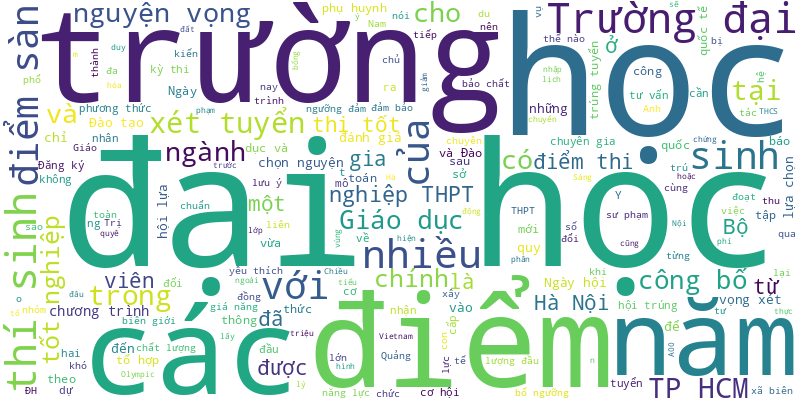
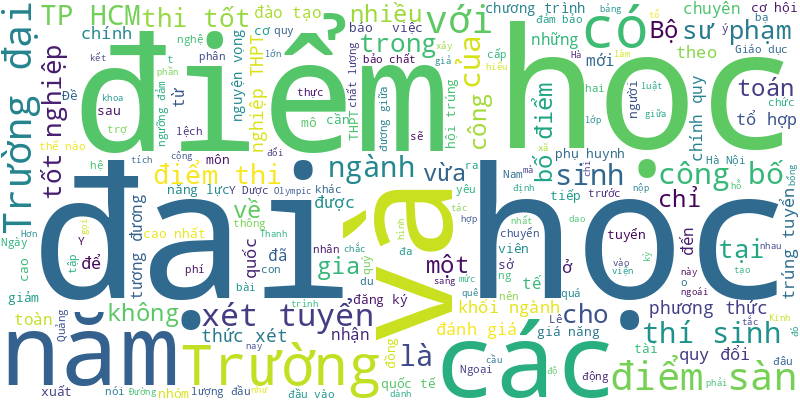
🍀 = 100%

diff --git a/README.md b/README.md
@@ -1,7 +1,27 @@
 # Tuoi Tre RSS 
 
 ## Giáo dục 
-- Sáng 22-7, Bộ Giáo dục và Đào tạo chính thức công bố ngưỡng đảm bảo chất lượng đầu vào năm 2025 (điểm sàn) đối với nhóm ngành sức khỏe và đào tạo giáo viên, trong đó điểm sàn nhóm ngành sức khỏe giảm 2 điểm so với năm ngoái.
+- Các chuyên gia nhận định điểm sàn khối ngành sức khỏe, sư phạm năm nay phù hợp với thực tế kỳ thi tốt nghiệp.
+- Nhiều trường đại học công bố điểm quy đổi tương đương giữa điểm học bạ, đánh giá năng lực và điểm thi đánh giá năng lực.
+- Trường đại học Y Dược Cần Thơ vừa có thông báo về ngưỡng đảm bảo chất lượng đầu vào xét tuyển các ngành hệ đại học chính quy năm 2025.
+- Trường đại học Sư phạm Hà Nội chính thức công bố ngưỡng đảm bảo chất lượng đầu vào đại học chính quy 2025 với nhóm ngành đào tạo giáo viên 19 - 22 điểm.
+- Đại học Kinh tế quốc dân chính thức công bố điểm sàn xét tuyển và bảng quy đổi tương đương giữa các phương thức xét tuyển.
+- Trường đại học Sư phạm TP.HCM công bố điểm sàn và nguyên tắc quy đổi điểm trúng tuyển giữa các phương thức xét tuyển năm 2025 tại 3 cơ sở đào tạo.
+- Các ứng viên nhận học bổng - được gọi là Học giả Jardine-Fulbright, sẽ được nhận hỗ trợ tài chính từ quỹ để chi trả học phí.
+- Theo lãnh đạo Đại học Phenikaa, việc chuyển sang 'đại học' không chỉ là sự chuyển đổi về tên gọi, mà là một cam kết quốc gia, là trách nhiệm trước người học, xã hội và cộng đồng khoa học.
+- Đại học Quốc gia TP.HCM và CT Group ký kết hợp tác, với thỏa thuận dành 100 tỉ đồng tài trợ dài hạn, thúc đẩy công nghệ cao, hỗ trợ người học và thu hút nhân tài.
+- Thí sinh xét tuyển vào ngành bán dẫn phải thuộc nhóm 25% thí sinh có điểm tổ hợp môn xét tuyển cao nhất toàn quốc và nhóm 20% thí sinh có điểm môn toán cao nhất toàn quốc.
+- Trường đại học Công nghiệp TP.HCM vừa công bố điểm sàn phương thức xét điểm thi tốt nghiệp THPT và quy tắc quy đổi điểm trúng tuyển tương đương giữa các phương thức xét tuyển.
+- Khối ngành sư phạm có điểm sàn xét tuyển cao nhất so với các khối ngành khác tại Trường đại học Đà Lạt.
+- Hơn 10 ngành đào tạo của Trường đại học Ngoại ngữ năm 2025 có mức điểm sàn giảm 2 điểm so với năm ngoái, trong đó có một ngành giảm tới 5 điểm.
+- Điểm sàn của Đại học Huế tuyển sinh đại học chính quy năm 2025 ở mức dao động từ 15 - 24,6 điểm. Các ngành 'hot' như luật, marketing, trí tuệ nhân tạo, y dược có điểm sàn không quá cao, áp dụng theo nhiều phương thức xét tuyển khác nhau.
+- Đề xuất xây dựng cơ sở quy mô lớn tại Bắc Ninh của Học viện Hàng không Việt Nam đã được lãnh đạo địa phương này ủng hộ.
+- Xuất sắc về nhất cuộc thi quý 3 chương trình Đường lên đỉnh Olympia 2025, Đoàn Thanh Tùng, học sinh lớp 11 sinh, Trường THPT chuyên Lê Quý Đôn (phường Nam Nha Trang, Khánh Hòa), đã mang cầu truyền hình về cho quê hương sau 6 năm.
+- Điểm thi tốt nghiệp THPT môn công nghệ công nghiệp có độ lệch điểm cao nhất là 2,26 điểm so với điểm học bạ; tiếp đến là môn toán lệch 2,25 điểm, tiếng Anh lệch 1,57 điểm.
+- Khác với các năm trước, thí sinh đăng ký học cao đẳng chỉ cần nộp hồ sơ trực tiếp cho trường, không phải đăng ký trên hệ thống chung của Bộ.
+- Đề thi Olympic toán học quốc tế 2025 gồm 6 bài toán, thi trong 540 phút. Lê Phan Đức Mân làm theo phần thi mà cậu chắc chắn nhất, hiểu đến đâu làm đến đó...
+- Theo phân tích của Bộ GD-ĐT, 20,25 điểm tổ hợp A00 tương đương 19 điểm tổ hợp B00, 22,75 điểm C00, 16,25 điểm D01 và 14,75 điểm D07.
+- Bộ Giáo dục và Đào tạo công bố điểm sàn khối ngành sư phạm là 19,  khối ngành sức khỏe giảm 2 điểm.
 - Năm nay, Trường đại học Ngoại thương (FTU) lấy điểm sàn cho phương thức xét điểm thi tốt nghiệp THPT với tổ hợp A00 (toán, lý, hóa) 24 điểm, các tổ hợp còn lại 23 điểm.
 - Chiều 21-7, Phó chủ tịch UBND TP.HCM đón và thưởng nóng 50 triệu đồng cho học sinh đoạt HCB toán quốc tế Lê Phan Đức Mân.
 - Điểm sàn các ngành sư phạm của trường là 19, tương đương điểm sàn khối ngành sư phạm năm 2024 do Bộ Giáo dục và Đào tạo công bố.
@@ -31,80 +51,63 @@
 - Trong tập phát sóng tiếp theo của Khám phá trường học 2025, mời khán giả cùng chương trình tìm hiểu các ngành học tại Trường đại học Yersin Đà Lạt.
 - Tin tức đáng chú ý: Điểm chuẩn tuyển sinh đại học năm 2025 khó đoán; Bộ Y tế yêu cầu cấp cứu tối đa cho nạn nhân vụ lật tàu du lịch; Đề xuất chỉ cơ quan báo chí mới được sản xuất kênh chương trình chuyên quảng cáo...
 - Với phương thức xét điểm thi THPT 2025, điểm sàn các trường đại học dao động từ 15 đến 24.
-- Ông Phạm Anh Tuấn - chủ tịch UBND tỉnh Gia Lai, yêu cầu 7 xã biên giới phải trình quy hoạch xây dựng trường bán trú trước ngày 15-8.
-- Nhận được thông báo trúng tuyển vào lớp 10 chuyên ở Hải Phòng, em H. làm thủ tục nhập học, thế nhưng nhiều ngày sau lại được thông báo không đủ điểm.
-- Chỉ cần tốt nghiệp THPT, thí sinh đã đủ điều kiện đăng ký học chương trình cử nhân quốc tế chuẩn Anh Quốc tại Gloucestershire Vietnam.
-- Bộ Chính trị thống nhất chủ trương đầu tư xây dựng các trường phổ thông nội trú liên cấp tiểu học và trung học cơ sở tại 248 xã biên giới đất liền.
-- Sau khi Đại học Quốc gia Hà Nội công bố ngưỡng đảm bảo chất lượng đầu vào đại học năm 2025 là 19 điểm, nhiều trường đại học thành viên/trực thuộc chính thức công bố điểm sàn riêng của từng trường.
-- Thí sinh đạt 130 điểm đánh giá năng lực của Đại học Quốc gia Hà Nội (kỳ thi HSA), tương đương 30 điểm tổ hợp A00; 29,5 điểm tổ hợp B00 và C00; 27,75 điểm D01.
-- Trong tập phát sóng tiếp theo của Khám phá trường học 2025, mời khán giả cùng chương trình tìm hiểu các ngành học tại Trường đại học Văn Lang.
-- Nhiều trường đại học đem đến Ngày hội lựa chọn nguyện vọng xét tuyển 2025 nhiều mô hình, cách thức tư vấn độc lạ.
-- Ngày hội lựa chọn nguyện vọng xét tuyển 2025 thu hút nhiều trường đại học đến từ Đài Loan, với các chương trình học bổng hấp dẫn dành cho sinh viên Việt Nam.
-- Nhiều loại đá quý như ruby, sapphire, ngọc lục bảo… đã chế tác tinh xảo được Trường ĐH Mỏ Địa chất mang đến Ngày hội lựa chọn nguyện vọng xét tuyển 2025 tại Hà Nội làm giáo cụ trực quan cho thí sinh.
-- Kỳ thi tốt nghiệp THPT 2025 khép lại trong sự thở phào của nhiều thí sinh và giáo viên, khi phổ điểm hai môn từng bị đánh giá là khó (toán và tiếng Anh) được một số chuyên gia nhận xét là "đẹp bất ngờ".
-- TS Nguyễn Mạnh Hùng - đại diện Vụ Giáo dục đại học (Bộ Giáo dục và Đào tạo) - nêu hàng loạt điều thí sinh cần đặc biệt lưu ý trong thời điểm 'nóng' đăng ký xét tuyển đại học.
-- Thí sinh có thể 'đi đường vòng' để vào ngành yêu thích. Điểm sàn trường quân đội năm nay dự kiến từ 18… Chuyên gia tư vấn tại Ngày hội lựa chọn nguyện vọng xét tuyển 2025.
-- Đội tuyển Việt Nam xếp thứ 9 trong số các quốc gia tham dự kỳ thi Olympic Toán quốc tế (IMO 2025), với 6/6 học sinh đều đoạt huy chương.
-- Từ 7h sáng nay 19-7, Ngày hội lựa chọn nguyện vọng xét tuyển 2025 diễn ra đồng thời tại TP.HCM và Hà Nội, sẵn sàng tư vấn cho thí sinh, phụ huynh.
-- Nhiều trường đại học lớn ở TP.HCM có điểm sàn xét tuyển theo phương thức xét điểm thi tốt nghiệp THPT 2025 và các phương thức khác thấp bất ngờ.
-- Hội sách 'Mơ hỏi mở' 2025 đánh dấu một thập kỷ thế hệ học sinh, sinh viên Vĩnh Long kết nối tri thức qua những cuốn sách.
-- Ngày 18-7, Sở Giáo dục và Đào tạo TP.HCM đã lấy ý kiến về các khoản thu và mức thu của cơ sở giáo dục công lập trên địa bàn TP.HCM năm học 2025-2026.
-- 2 lãnh đạo các công ty thuộc Tập đoàn Giáo dục EQuest đã gửi đơn tố giác bà Ng., đối tác chuyển nhượng Hệ thống Giáo dục Ngôi sao Hà Nội.
-- Theo các chuyên gia, từ nguồn nhân lực đến trang thiết bị phục vụ đào tạo nhân lực cho bán dẫn đều đòi hỏi đầu tư rất lớn.
 ![Edu](Edu.png)
 ## Thời Sự 
-- Bộ đội biên phòng tỉnh Hưng Yên túc trực liên tục với các trang thiết bị như ống nhòm với tầm quan sát 20km, cano… Khi phát hiện có ngư dân vẫn ở chòi ngao hoặc trên thuyền thì sẽ tiếp cận, kiên quyết yêu cầu tuân thủ lệnh cấm biển.
-- Do ảnh hưởng bão số 3 Wipha, độ ẩm đất bão hòa nên nguy cơ sạt lở, lũ tại Thanh Hóa, Nghệ An, Phú Thọ rất cao.
-- Với diễn biến ngày càng khó lường của thiên tai, các thông tin dự báo thời tiết ngày càng được người dân quan tâm theo dõi. Nhưng trang nào đáng tin cậy, không phát tin sai lệch, gây hoang mang?
-- Bão số 3 đã đi qua đặc khu Bạch Long Vĩ (Hải Phòng) và Cô Tô (Quảng Ninh) nhưng không gây thiệt hại gì lớn.
-- Đà Nẵng xác định các thủ tục liên quan về đất đai trong ranh giới Khu thương mại tự do Đà Nẵng tại 5 vị trí có thể làm ngay. Cùng với đó là nghiên cứu, đề xuất mở rộng, điều chỉnh ranh giới khu vào phía Nam (khu vực Chu Lai).
-- Trong hôm qua, khắp các tỉnh chịu ảnh hưởng trực tiếp từ bão như Quảng Ninh, Hưng Yên, Ninh Bình đã hết sức mình chuẩn bị để giảm thiểu thiệt hại do bão số 3 Wipha gây ra.
-- 8h sáng 22-7, tâm bão số 3 nằm ngay trên vùng biển ven bờ Hưng Yên - Ninh Bình với cường độ cấp 9 (74-88km/h), giảm một cấp so với trước đó.
-- So với thời điểm thống kê ngày 8-7, đến nay cả nước đã hỗ trợ xóa nhà tạm, nhà dột nát thêm được gần 2.000 căn.
-- Một số tin tức đáng chú ý: Chủ tịch Chứng khoán FPT không muốn kiêm nhiệm chức phó tổng giám đốc; Đề xuất mức học bổng mới các ngành khoa học cơ bản, công nghệ chiến lược; Đình chỉ lưu hành, thu hồi toàn quốc 8 loại mỹ phẩm nhập khẩu.
-- Phát hiện hai thanh niên đi xe máy không biển số có biểu hiện nghi vấn, Công an phường Hòa Cường (Đà Nẵng) đã đưa vào “tầm ngắm” và từ đây một đường dây trộm cắp, tiêu thụ xe máy liên tỉnh lộ diện.
-- Hôm nay 22-7, bão số 3 sẽ đổ bộ vào đất liền nước ta gây đợt mưa rất to cho các tỉnh Bắc Bộ, thời điểm bão đi qua dông gió dữ dội.
-- Anh Nguyễn Hải Anh cho biết bão số 3 được dự báo sẽ đổ bộ vào Hải Phòng nên từ chiều anh đã đánh xe lên Cung văn hóa Hữu nghị Việt Tiệp để xe.
-- Thông tin với Tuổi Trẻ Online lúc 23h20, bà Lê Ngọc Hân, bí thư Đảng ủy đặc khu Cô Tô (Quảng Ninh), cho biết toàn đặc khu Cô Tô đã bị mất điện.
-- Trưa 20-7 tại TP.HCM xảy ra mưa lớn và dông lốc gây tốc mái 49 căn nhà, 1 căn nhà bị sập, đổ 73 cây xanh, hư hại 2 xe ô tô và 1 xe máy.
-- Một chủ nhà hàng hải sản tại phường Bãi Cháy đã chi gần 100 triệu đồng/ngày cho việc thuê container để che chắn cửa hàng chống bão số 3.
-- Chiều 21-7, Thủ tướng Phạm Minh Chính đã kiểm tra tiến độ Dự án Xây dựng công trình đường bộ cao tốc Cao Lãnh - An Hữu giai đoạn 1.
-- Do ảnh hưởng của bão số 3 (bão Wipha), dự báo từ trưa và chiều mai (22-7) ở Hà Nội khả năng có gió cấp 5-6, gió giật cấp 7-8.
-- Sau khi sáp nhập, ngày 21-7 UBND tỉnh Đồng Nai đã có quyết định cho áp dụng theo bảng giá đất cũ.
-- Bộ Quốc phòng đã huy động 346.210 cán bộ, chiến sĩ, hơn 5.000 ô tô, trên 600 xe đặc chủng, 5 máy bay để ứng trực bão số 3 Wipha.
-- Mưa lớn đúng vào thời điểm tan tầm trong chiều 21-7 khiến giao thông Hà Nội ùn tắc, nhiều người dân mặc áo mưa nhích từng chút.
-- Đến chiều 21-7, tại khu du lịch biển Sầm Sơn, tỉnh Thanh Hóa có hơn 4.000 du khách đang lưu trú tại nhà nghỉ, khách sạn.
-- Dự báo từ khoảng 10h đến 15h chiều mai (22-7), bão số 3 (bão Wipha) đổ bộ vào đất liền, từ Hải Phòng đến bắc Thanh Hóa.
-- Liên quan vụ tai nạn xe khách trên cao tốc Vĩnh Hảo - Phan Thiết, Sở Xây dựng TP.HCM sẽ phối hợp kiểm tra hợp tác xã quản lý xe khách Như Ý 78.
-- Cán bộ, nhân viên trên tàu cao tốc Lighning 68 vừa cứu một ngư dân trôi dạt trên biển thuộc khu vực gần hòn Tre, đặc khu Kiên Hải, tỉnh An Giang.
-- Thông tin với Tuổi Trẻ Online lúc 21h30, lãnh đạo UBND đặc khu Bạch Long Vĩ cho biết bão số 3 đang đến gần đặc khu Bạch Long Vĩ, nơi đây hiện có gió cấp 7-8.
-- Cục Hàng không Việt Nam quyết định tạm dừng khai thác sân bay Vân Đồn và Cát Bi trong tối 21 và ngày 22-7.
-- Cơ quan chức năng đã chỉ ra các hành vi vi phạm của Công ty cổ phần Dược trung ương 3 liên quan số thuốc buộc tiêu hủy nhưng lọt ra ngoài.
-- Phôi sổ hồng sẽ được phân phối đến 3 địa điểm tại TP.HCM để 168 phường, xã, đặc khu tiện nhận phôi, cấp sổ hồng cho người dân trên địa bàn.
-- 161 người có quê ở 16 tỉnh, thành Việt Nam được Campuchia phát hiện từ các tổ chức lừa đảo tại đất nước này.
-- Để đảm bảo quyền lợi người dân, Bảo hiểm xã hội TP đề nghị lấy chính sách hỗ trợ cao nhất của 3 tỉnh thành để căn cứ xây dựng nghị quyết mới.
-- Để sớm đáp ứng kỳ vọng của người dân về hành chính công vụ, đòi hỏi từng cán bộ, công chức phải tự thay đổi tư duy, tác phong làm việc.
-- Sở Nông nghiệp và Môi trường tỉnh Lâm Đồng cho biết trận mưa kèm dông lốc vừa rồi đã gây thiệt hại khoảng 3 tỉ đồng tại 19 xã, phường ở địa phương này.
-- Chiều 21-7, tại khu vực đảo Cô Tô (tỉnh Quảng Ninh) mưa bắt đầu lớn hơn, sóng biển mạnh, gió giật cấp 6, cấp 7 do ảnh hưởng bởi cơn bão số 3 (Wipha).
-- Các nhà mạng tại Việt Nam chủ động triển khai nhiều phương án ứng phó với diễn biến phức tạp của bão số 3 (Wipha).
-- Dự báo của Việt Nam, Nhật Bản và Hong Kong đều nhận định bão số 3 sẽ mạnh lên cấp 11, giật cấp 13-14 trước khi đổ bộ vào Hải Phòng - Thanh Hóa.
-- Chủ tịch TP.HCM chỉ đạo xử lý vụ xây dựng trái phép ở Phước Thắng, yêu cầu làm rõ dấu hiệu có “đầu nậu” đứng sau.
-- Quảng Trị dự kiến xây dựng 51 khu tái định cư phục vụ dự án đường sắt cao tốc Bắc - Nam, giao 35 xã, phường làm chủ đầu tư và chịu trách nhiệm nếu có phát sinh phức tạp trong giải phóng mặt bằng.
-- TP.HCM yêu cầu thủ trưởng các sở, ngành, đơn vị, phường, xã, đặc khu triển khai ứng phó ảnh hưởng bão số 3.
-- Ngư dân tại các xã ven biển Hưng Yên đang cấp tập chằng chống tàu bè, nhà cửa lần cuối, trước khi cơn bão Wipha đổ bộ.
-- Chi cục Kiểm lâm TP.HCM đã tiếp nhận con cá sấu nặng khoảng 2kg mà lực lượng chức năng bắt được dưới kênh Nước Đen, phường Bình Hưng Hòa.
-- Người hoạt động không chuyên trách cấp xã trước ngày 1-7 có thể được bổ nhiệm làm công chức lãnh đạo, nếu đủ điều kiện và thực hiện đúng thủ tục.
-- Thủ tướng Phạm Minh Chính đã đến kiểm tra tiến độ thi công cao tốc Châu Đốc - Cần Thơ - Sóc Trăng, và chỉ đạo "nóng" chủ đầu tư và nhà thầu quyết liệt thi công để thông xe kỹ thuật vào ngày 19-12.
-- Bộ Tài chính đề xuất áp thuế thu nhập cá nhân 20% trên phần thu nhập thực từ mỗi lần chuyển nhượng bất động sản, thay cho cách tính theo tỉ lệ cố định như hiện nay.
-- Ban Chỉ đạo đại hội của Thành ủy TP.HCM về đại hội đảng bộ phường, xã, đặc khu và cấp trên trực tiếp cơ sở nhiệm kỳ 2025-2030 thành lập 17 tổ công tác do các thành viên trong ban làm tổ trưởng.
-- Tổng Bí thư Tô Lâm nhấn mạnh hoạt động kiểm sát không chỉ là thực thi pháp luật mà còn là thực thi công lý với tinh thần nhân văn.
-- Thủ tướng Phạm Minh Chính đã dự lễ viếng, truy điệu và cải táng hài cốt liệt sĩ quân tình nguyện, chuyên gia Việt Nam đã hy sinh tại Campuchia và trong nước nhân kỷ niệm 78 năm Ngày Thương binh liệt sĩ 27-7 tại nghĩa trang Dốc Bà Đắc, tỉnh An Giang.
-- Một số tài khoản Facebook cá nhân tại Quảng Trị liên tục đăng tải thông tin liên quan đến những xe tải giả vờ bán hàng, hỏi đường… rồi xịt hơi cay, thuốc mê bắt cóc người. Công an đã phải vào cuộc xử lý.
-- Kiểm tra đột xuất hoạt động đưa khách du lịch tham quan các đảo trên vịnh Nha Trang bằng tàu thuyền, cảnh sát đường thủy đã đình chỉ hoạt động các phương tiện không đủ thuyền viên, bình chữa cháy...
-- Các trường hợp đăng tải thông tin sai sự thật trên mạng xã hội liên quan đến vụ lật tàu du lịch trên vịnh Hạ Long sẽ bị xử lý nghiêm.
-- Mặc dù cơn bão số 3 (bão Wipha) chưa vào đất liền, nhưng trong hai ngày qua, nhiều địa phương của tỉnh Thanh Hóa có dông lốc cực đoan kèm mưa lớn làm hàng trăm nhà dân bị tốc mái, hư hỏng.
+- Đang câu cá, anh Đầu nghe tiếng kêu cứu thất thanh từ một hồ nước cạnh đó và đã lao xuống hồ nước sâu để cứu người.
+- Phòng khám đa khoa Việt Khang Thủ Đức là điểm nóng thường xuyên bị người dân phản ánh có tình trạng 'vẽ bệnh, moi tiền'.
+- Trong đêm 22-7, nhiều người dân ở xã Tương Dương (tỉnh Nghệ An) chạy lên núi, tìm nơi cao để tránh lũ.
+- Sau khi bão Wipha đổ bộ vào đất liền nước ta, nhiều người cho rằng ảnh hưởng gió bão, mưa có nơi cũng không lớn như dự báo trước đó.
+- Mưa lớn do bão số 3 (Wipha) khiến dòng chảy lũ về hồ thủy điện Bản Vẽ (Nghệ An) ở mức rất cao, vượt lưu lượng lũ thiết kế gần 3.000m³/s. Lũ trên sông Cả ở các trạm Mường Xén, Thạch Giám và Con Cuông đều trên báo động 3 từ 4,7m đến gần 8m.
+- Tin tức đáng chú ý: Đề xuất phụ cấp mới cho nhà giáo từ 1-1-2026 mức 25-80% lương; Bệnh viện Bạch Mai và Việt Đức mới hoạt động từ 30-11 tới đây.
+- Hôm nay 23-7, dù bão số 3 đã tan nhưng vùng nhiễu động suy yếu từ bão vẫn gây mưa to cho Bắc Bộ và các vùng lân cận.
+- Đêm 22-7, nước sông Nậm Mộ qua xã Mường Xén, tỉnh Nghệ An dâng cao gây ngập lụt nhiều khu dân cư. Người dân và chính quyền đang hối hả 'chạy lũ'.
+- Thủ tướng Lào tin tưởng nhân dân Việt Nam sẽ vượt qua mọi khó khăn, đưa cuộc sống của các gia đình bị ảnh hưởng sớm ổn định.
+- Thông tin được đưa ra trong quyết định số 1575 do Phó thủ tướng thường trực Nguyễn Hòa Bình ký ban hành về kế hoạch triển khai thi hành Luật Cán bộ, công chức năm 2025.
+- Ông Lâm Văn Mẫn được chỉ định làm bí thư Đảng ủy Hội đồng Dân tộc và phê chuẩn ông Hoàng Duy Chinh làm phó chủ tịch thường trực Hội đồng Dân tộc của Quốc hội.
+- Quảng Ngãi đang căng mình dập dịch tả heo châu Phi ở phía đông (tỉnh Quảng Ngãi cũ) thì đàn bò ở phía tây (tỉnh Kon Tum cũ) xuất hiện các triệu chứng bất thường, cơ quan chức năng ngay ngáy lo dịch lở mồm long móng.
+- Theo Phó chủ tịch UBND tỉnh Khánh Hòa Trần Hòa Nam, tỉnh sẽ gặp gỡ, đối thoại với doanh nghiệp, nhà đầu tư để giải quyết các kiến nghị và công khai, cam kết tiến độ xử lý đảm bảo minh bạch, hiệu quả, thực chất.
+- Khoảng 17h30 ngày 22-7, tại đê bối khu vực cống Cù Là, xã Hồng Vũ, tỉnh Hưng Yên có hiện tượng tràn 300m trên mặt đê và vỡ khoảng 7m đê.
+- Một đôi nam nữ người Lào mang theo 17kg ma túy đá cùng 6.000 viên ma túy tổng hợp qua biên giới Việt - Lào thì bị biên phòng bắt giữ.
+- Chiều 22-7, ông Nguyễn Văn Nên - ủy viên Bộ Chính trị, bí thư Thành ủy TP.HCM - dẫn đầu đoàn công tác thăm hỏi, tặng quà các thương binh, bệnh binh, người có công tại xã Long Hải, TP.HCM.
+- Do mưa lớn kéo dài ảnh hưởng từ cơn bão số 3 (bão Wipha), nước sông suối ở các xã miền núi Nghệ An dâng cao. Lũ quét qua cuốn trôi cầu, nhiều hộ dân bị chia cắt.
+- Nội dung được nêu trong thông báo kết luận của chủ tịch UBND TP.HCM, sau buổi làm việc với Tập đoàn Sun Group về đề xuất đầu tư các dự án tại TP.HCM.
+- Sau bão số 3, thủy triều lên nhanh làm một số tuyến đường nội đô thành phố Hải Phòng ngập trong nước.
+- Từ ngày 1 đến 18-7, TP.HCM đã tổ chức hơn 5.000 lượt xe đưa rước miễn phí cán bộ, công chức từ Bình Dương và Bà Rịa - Vũng Tàu cũ vào trung tâm TP làm việc.
+- Quảng Trị vừa có kiến nghị cơ chế đặc thù để tuyển dụng lãnh đạo, cán bộ phụ trách lĩnh vực đất đai có năng lực, chuyên môn để đáp ứng nhiệm vụ chủ đầu tư nhiều dự án giải phóng mặt bằng lớn, quan trọng của quốc gia.
+- Nhiều ý kiến đồng tình ủng hộ hướng bắt đầu chuyển đổi xe xăng sang xe điện bắt đầu từ shipper và góp ý cho lộ trình chuyển đổi tại TP.HCM.
+- Phó chủ tịch UBND TP.HCM Bùi Xuân Cường giao Sở Xây dựng khẩn trương phối hợp với UBND các phường xây dựng kế hoạch cải tạo, xây dựng lại 31 chung cư cũ trong năm 2025.
+- Chiều 22-7, bão số 3 (Wipha) bất ngờ ít di chuyển và tại Hòn Dấu (Hải Phòng), Văn Lý (Ninh Bình) lúc 16h vẫn có gió mạnh cấp 8, giật cấp 10.
+- Bộ trưởng Bộ Y tế Đào Hồng Lan đã có trả lời ý kiến của cử tri về đề xuất sáp nhập các trạm y tế xã, phường mới.
+- Dù việc nuôi chim diều lửa cần phải có giấy tờ chứng minh nguồn gốc hợp pháp, nhưng vẫn có người mang loài chim này đến bờ kênh Nhiêu Lộc - Thị Nghè, TP.HCM để huấn luyện cho chim bay lượn cũng như quay clip đăng lên mạng xã hội.
+- Vấn đề gói đồ ăn thừa từ đám cưới hoặc tiệc tùng để mang về nhà thu hút nhiều tranh luận, sau bài viết trên Tuổi Trẻ Online.
+- Công ty TNHH Công nghệ bảo hộ Kanglongda Việt Nam vừa bị UBND TP Huế xử phạt hành chính 335 triệu đồng, vì bán 2,6 tấn chất thải nguy hại cho người không có chức năng xử lý và vi phạm quy định về lưu giữ chất thải công nghiệp.
+- Theo bạn đọc, việc chẩn đoán khác biệt giữa hai cơ sở y tế là điều không thể chấp nhận.
+- Lợi dụng sáp nhập tỉnh thành, nhiều đối tượng lừa đảo giả mạo nhân viên điện lực TP.HCM để chiếm đoạt tài sản khách hàng.
+- Lực lượng cảnh sát phòng cháy chữa cháy và cứu nạn cứu hộ - Công an TP Hà Nội vừa phối hợp lực lượng tại chỗ, cơ sở dập tắt đám cháy tại ngôi nhà 5 tầng trên đường Giải Phóng.
+- Bộ Công an đã tổ chức các hoạt động nhân kỷ niệm 78 năm Ngày Thương binh Liệt sĩ, 65 năm Ngày thành lập Ban An ninh Trung ương Cục miền Nam tại tỉnh Tây Ninh.
+- Theo báo cáo của Sở Y tế TP.HCM, đến nay TP có 2.711 nhà thuốc (trong đó gồm nhà thuốc tư nhân, nhà thuốc bệnh viện, và các nhà thuốc của doanh nghiệp) tham gia bán giá thuốc bình ổn, thấp hơn giá thị trường tối thiểu 5%.
+- Do ảnh hưởng bão số 3, hai hãng tàu cao tốc Phú Quốc Express và Phú Quý Express tạm ngưng tuyến ra Côn Đảo từ 21 đến 25-7.
+- Sau khi phát hiện gà nuôi trong 1 hộ gia đình bị nhiễm cúm gia cầm A (H5N1), ngành chức năng Đắk Lắk đã khoanh vùng dập dịch.
+- Lúc 13h chiều 22-7, tâm bão số 3 (Wipha) đang trên đất liền Ninh Bình - Thanh Hóa. Dự báo trong chiều tối nay, bão sẽ đi sâu vào đất liền và suy yếu thành vùng áp thấp trên khu vực thượng Lào.
+- Do ảnh hưởng cơn bão số 3 Wipha, trong 2 ngày qua, trên địa bàn nhiều xã, phường của tỉnh Thanh Hóa có mưa to đến rất to làm gần 7.200ha lúa mùa bị ngập cục bộ.
+- Ông Nguyễn Trọng Nghĩa dẫn đầu đoàn công tác đến làm việc với Ban Thường vụ Tỉnh ủy An Giang về một số giải pháp phát triển kinh tế và công tác chuẩn bị Đại hội Đảng bộ nhiệm kỳ 2025-2030.
+- Phòng Cảnh sát giao thông Công an tỉnh Đồng Nai cho hay việc công bố số điện thoại nhằm giải quyết nhanh các vụ việc được người dân phản ảnh.
+- Ban Bí thư yêu cầu các cơ quan, địa phương tăng cường chỉ đạo, kiểm tra, ứng phó với bão số 3 (bão Wipha), hạn chế đến mức thấp nhất thiệt hại xảy ra.
+- Trao đổi với Tuổi Trẻ Online, trung tá Lê Thế Dũng, phó đồn trưởng Đồn biên phòng cửa khẩu cảng Hòn Gai, cho biết đã vớt được 1 thi thể nạn nhân tại khu vực cách vị trí tàu Vịnh Xanh 58 gặp nạn khoảng 500m.
+- Bộ Xây dựng cho biết cầu Nhơn Trạch đạt 99% khối lượng, sẵn sàng khai thác. Tuy nhiên, hiện chưa có đường kết nối với vành đai 3 TP.HCM. Tuổi Trẻ Online trao đổi với chủ đầu tư vành đai 3 về vấn đề này.
+- Ngày 22-7, Đảng bộ phường Nha Trang (tỉnh Khánh Hòa) tổ chức Đại hội đại biểu lần thứ I nhiệm kỳ 2025 - 2030. Đây là đại hội điểm cấp cơ sở của Khánh Hòa.
+- Xe hơi chở bốn người bất ngờ bị nổ lốp, sau đó lao vào xe đầu kéo và dải phân cách.
+- Ngày 22-7, Ban quản lý dự án Mỹ Thuận đã báo cáo Bộ Xây dựng về kế hoạch tổ chức lễ khởi công dự án cao tốc Mỹ An - Cao Lãnh giai đoạn 1.
+- Một ổ dịch bệnh dại vừa được phát hiện tại biên giới xã Ia Tơi, Quảng Ngãi. Đến nay đã có 15 con chó bị tiêu hủy và ít nhất hai người bị chó dại cắn đã được tiêm vắc xin, huyết thanh phòng bệnh dại.
+- Người đàn ông ở Đồng Nai chạy xe máy vào đường cong thì mất lái lao thẳng xuống lề đường, văng xa cả chục mét, tử vong sau đó.
+- Chính phủ vừa có nghị quyết tháo gỡ khó khăn, vướng mắc liên quan đến dự án ngăn triều 10.000 tỉ và dự án kết nối đường Phạm Văn Đồng đến nút giao thông Gò Dưa - quốc lộ 1.
+- Đảng ủy xã Nghĩa Hành, Quảng Ngãi đã họp với UBND xã chấn chỉnh những phát sinh không đáng có trong công tác phòng, chống dịch. Việc có người tự phát thu tiền của người dân là chưa đúng và yêu cầu hoàn trả.
+- TP.HCM sẽ nghiên cứu, đề xuất quy định bắt buộc kiểm định khí thải định kỳ xe máy, từng bước loại bỏ xe cũ nát nhằm giảm ô nhiễm môi trường và đảm bảo an toàn giao thông.
 ![New](News.png)
 ## Nhịp sống số 
+- Công ty khởi nghiệp về công nghệ thần kinh Neuralink của tỉ phú Mỹ Elon Musk vừa thông báo lần đầu tiên thực hiện thành công 2 ca cấy chip vào não người trong 1 ngày.
+- Mùa hè sôi động đang gọi tên bạn, và JBL sẵn sàng cùng bạn khuấy đảo từng khoảnh khắc với đại tiệc khuyến mãi JBL Summer Sale cực kỳ hấp dẫn - chỉ từ 990.000 đồng.
+- Microsoft phối hợp Chính phủ Pháp tạo bản sao kỹ thuật số Nhà thờ Đức Bà, mở ra trải nghiệm thực tế ảo cho những người không thể đến Paris, đồng thời lưu trữ chi tiết kiến trúc trong 100 năm tới.
 - Người Việt không còn chỉ theo sau làn sóng AI toàn cầu. Từ việc ứng dụng, họ bắt đầu tạo ra những hệ thống AI mang bản sắc riêng hiểu ngôn ngữ, văn hóa và nhu cầu của chính người Việt.
 - Theo chuyên gia bảo mật, trước đây email lừa đảo dễ dàng bị phát hiện do cách diễn đạt không tự nhiên, nhưng sự tiến bộ của AI đã giúp tạo ra các câu tự nhiên, cho phép tin tặc vượt qua rào cản ngôn ngữ.
 - Mirage được giới thiệu có thể chuyển đổi các luồng video trực tiếp sang nhiều phong cách hình ảnh khác nhau mà vẫn giữ nguyên chuyển động, cấu trúc và tốc độ khung hình.
@@ -152,7 +155,4 @@
 - Tại nhiều quốc gia, nghề nuôi ong đang chuyển mình với công nghệ cảm biến và trí tuệ nhân tạo. Chỉ cần xem điện thoại, người nuôi biết hết những gì xảy ra bên trong tổ ong.
 - Google chính thức hé lộ Android XR, một nền tảng dành riêng cho thiết bị thực tế ảo và tăng cường, được kỳ vọng sẽ định hình lại cách chúng ta làm việc, giải trí và kết nối với thế giới ảo, bắt đầu từ cuối năm 2025.
 - Không chỉ phổ cập mạng tốc độ cao, Viettel còn mang đến trải nghiệm số sống động cho người dân miền Tây ngay tại chợ, trường học, công viên và khu dân cư.
-- Đợt cắt giảm việc làm sắp tới của Microsoft là một minh chứng rõ ràng cho tác động chuyển đổi của trí tuệ nhân tạo (AI).
-- Midjourney, một trong những start-up tạo hình ảnh AI phổ biến nhất, vừa ra mắt mô hình tạo video AI được mong đợi từ lâu của mình, V1, đánh dấu bước tiến quan trọng của công ty trong thị trường video AI đầy tiềm năng.
-- Search Live cho phép người dùng đặt câu hỏi bằng giọng nói và nhận ngay phản hồi âm thanh từ AI. Lịch sử trò chuyện được lưu trong AI Mode, giúp bạn dễ dàng tra cứu lại khi cần.
 ![life](Life.png)
